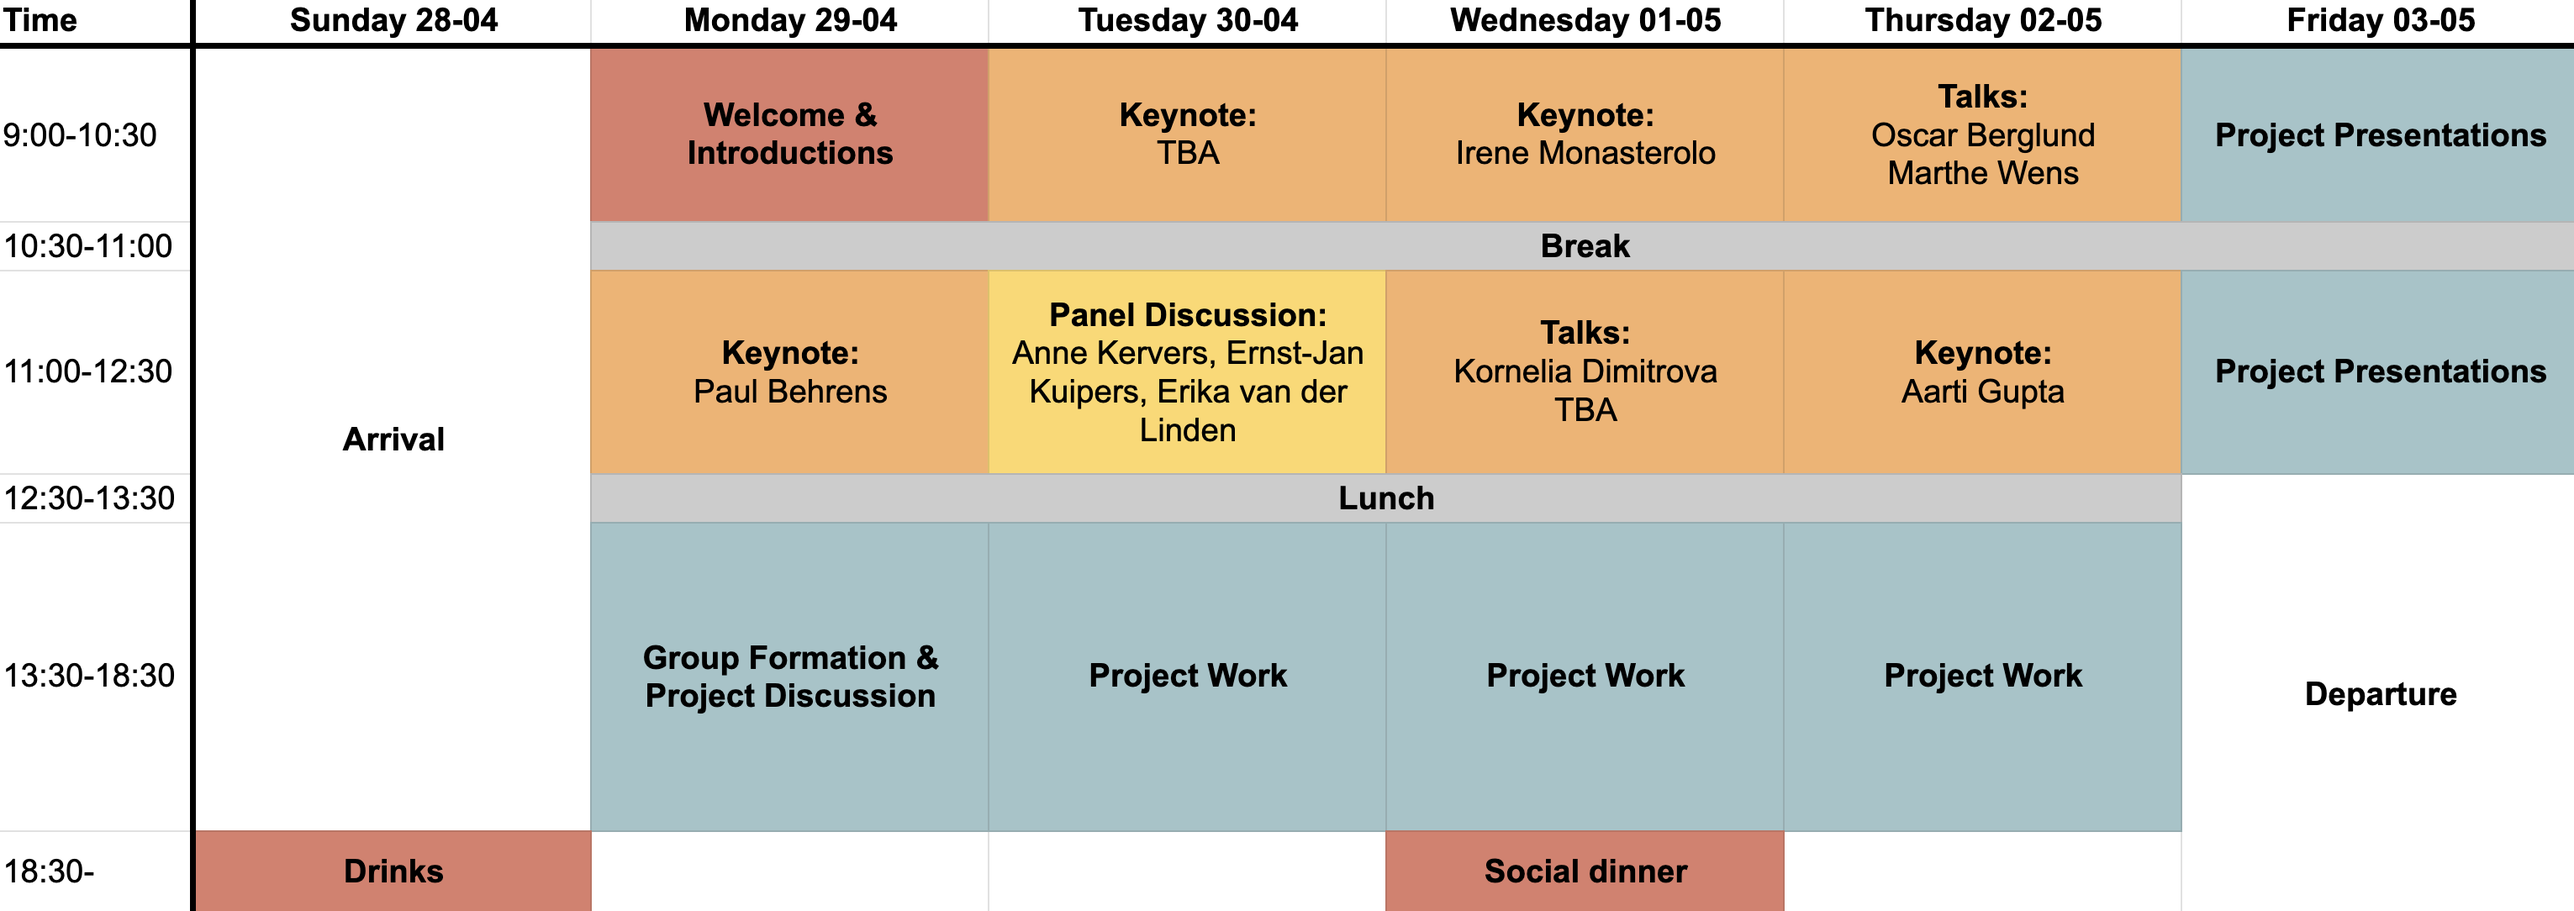
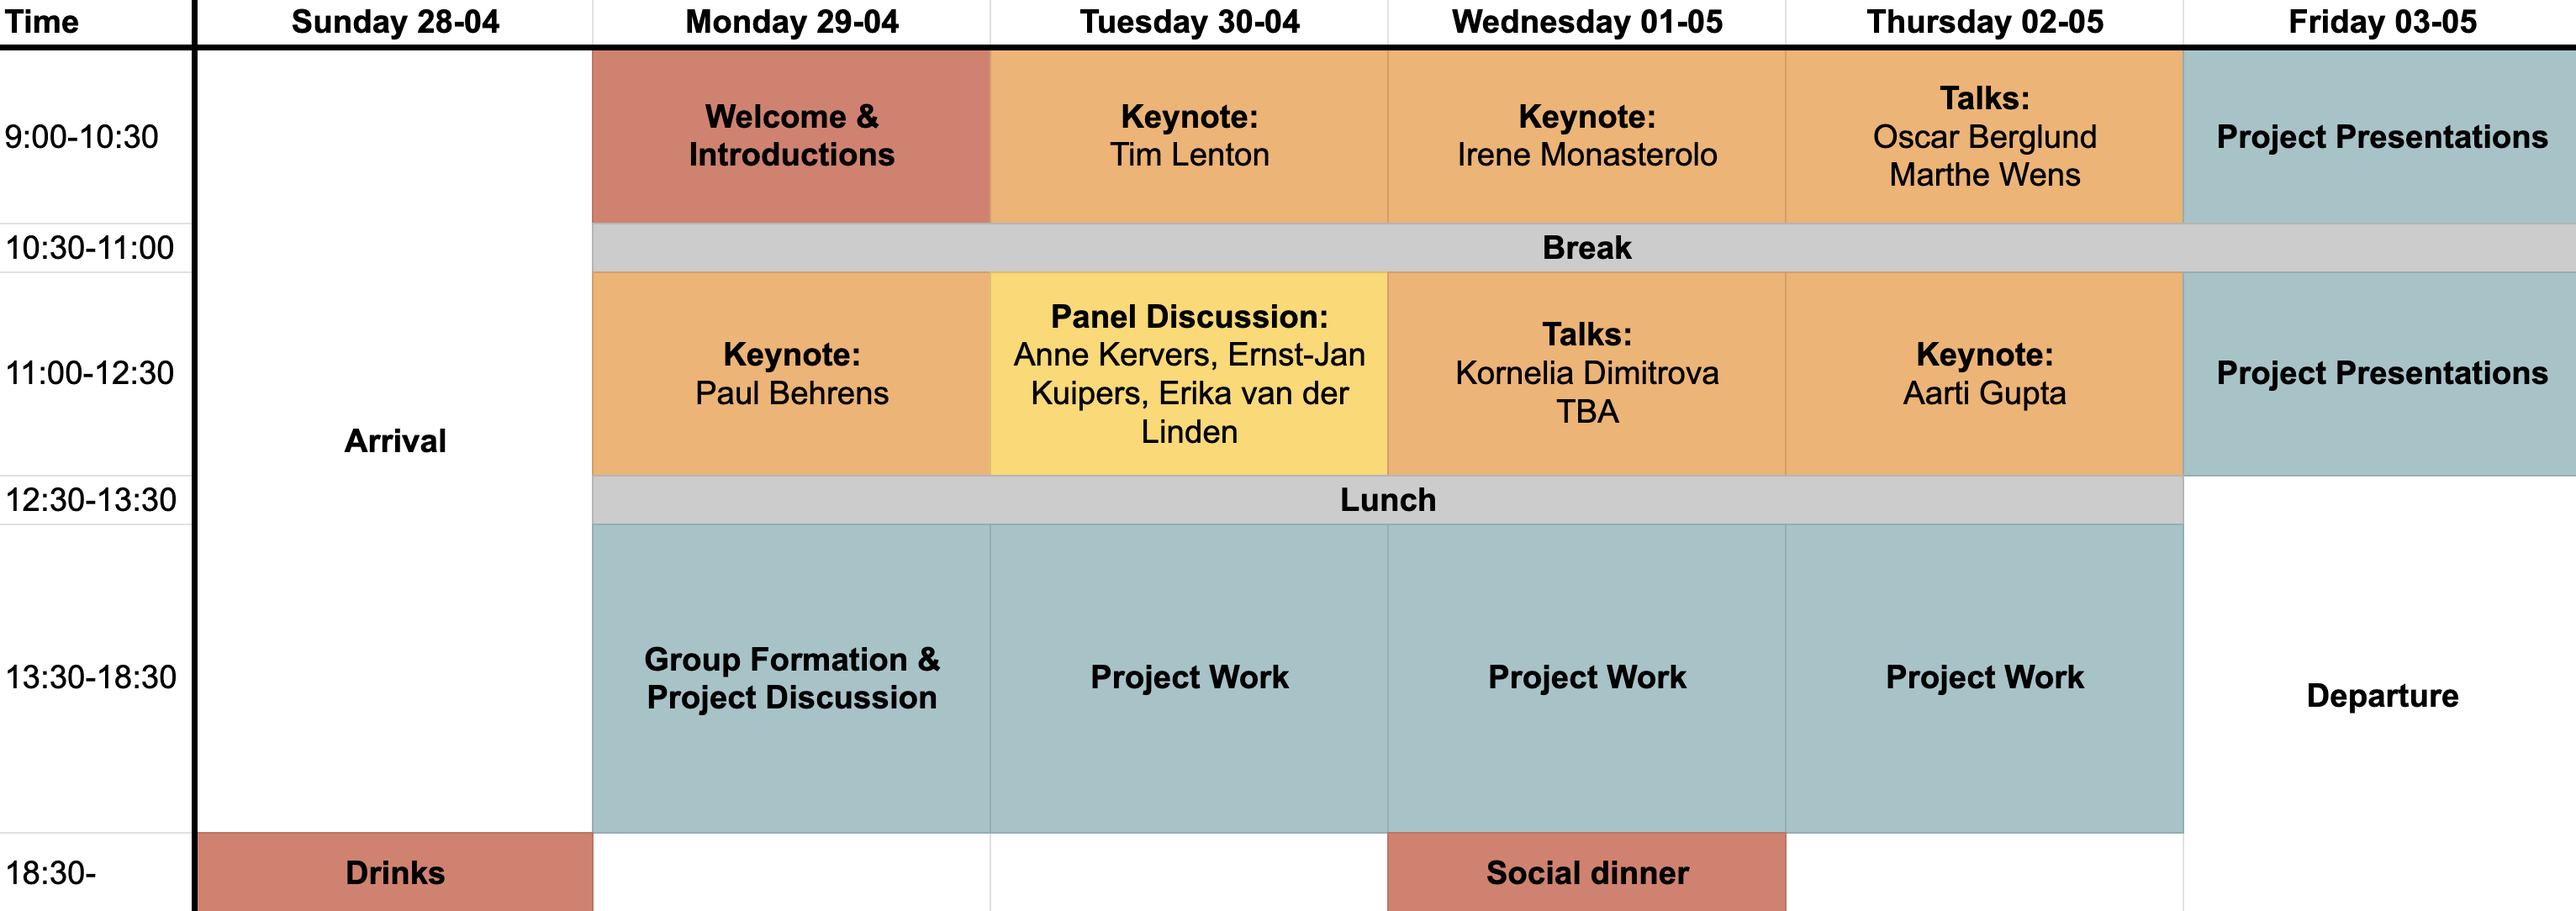
update program

diff --git a/speakers.md b/speakers.md
@@ -7,7 +7,7 @@ You can find a list of confirmed speakers below, but there are more to come!
 
 <div style="overflow: hidden; margin-top: 40px;">
   <img style="float: left; margin-right: 20px;" src="/assets/image23/speakers/tim.jpg" width="25%"/>
-  <p><a href='https://scholar.google.nl/citations?user=DiCOJ64AAAAJ&hl=nl&oi=ao'>Tim Lenton</a> is Chair in Climate Change and Earth System Science at the University of Exeter. His reading of Jim Lovelock’s books on Gaia, when he was an undergraduate, ignited his passion for studying the Earth as a whole system, forming the foundations of his research to date. Tim has made foundational contribution to the study of climate tipping points and Earth system science more broadly, and his integrated view of our living planet is captured in his books <i>Revolutions that made the Earth</i> and <i>Earth System Science: A Very Short Introduction</i>. In recent years Tim has shifted his focus towards identifying positive tipping points towards systainability, and is currently on leave to write a book on the topic.
+  <p><a href='https://scholar.google.nl/citations?user=DiCOJ64AAAAJ&hl=nl&oi=ao'>Tim Lenton</a> is Chair in Climate Change and Earth System Science at the University of Exeter. His reading of Jim Lovelock’s books on Gaia, when he was an undergraduate, ignited his passion for studying the Earth as a whole system, forming the foundations of his research to date. Tim has made foundational contribution to the study of climate tipping points and Earth system science more broadly, and his integrated view of our living planet is captured in his books <i>Revolutions that made the Earth</i> and <i>Earth System Science: A Very Short Introduction</i>. In recent years, Tim has shifted his focus to identifying positive tipping points towards systainability, and is currently on sabbatical to write a book on the subject.
   </p>
 </div>
 
